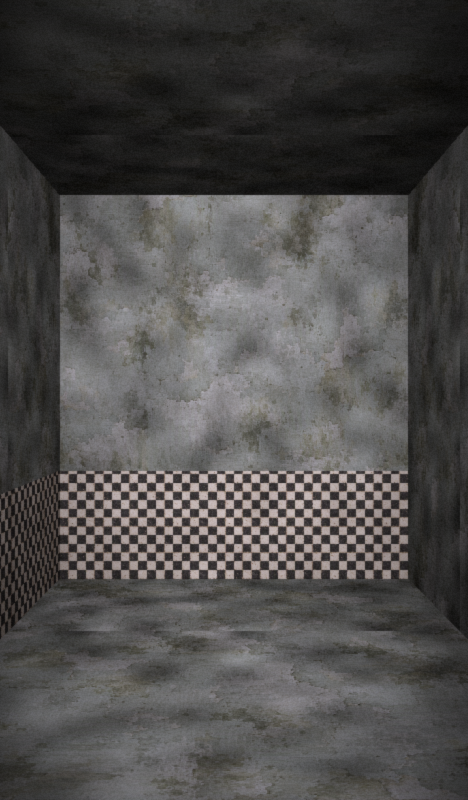
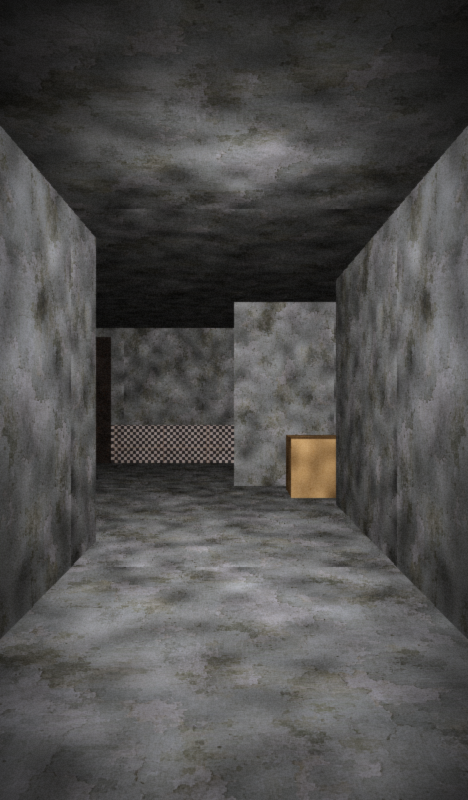
走廊尽头改成转角：直走 5.4 米，左边拐进去
原来尽头是一堵平墙，看着像走到死路。现在走廊直走 5.4 米到路口，
正前方封死、左手边豁开一条通道再往深处延伸，通道尽头有扇门。

- 几何用「一个大盒子当边界 + 几块实心填充」拼出 L 形，不再复用
  gen_placeholder_art 的 LEFT_CORR / RIGHT_CORR（那两个是直通长方体）
- FOV 从 34° 提到 46°：34° 在 4 米处只有 1.5 米视野宽，两侧墙都进不来
- ⚠ 左墙必须**提前断开**（4.0 米就结束）。做到 5.4 米的话，左拐口
  被这面墙整个挡住，渲出来还是一堵平墙 —— 试了两轮才发现
- 路口右侧加纸箱，别让封死的那半边空着

diff --git a/tools/render_corridor.py b/tools/render_corridor.py
@@ -3,11 +3,10 @@
 和办公室全景 / 监控同一套光线投射渲染器、同一套手绘贴图，
 所以门口那条走廊和房间是同一个世界。
 
-几何**直接复用** gen_placeholder_art 里的 LEFT_CORR / RIGHT_CORR ——
-全景里那两块本来就画了走廊，只是房间那盏吊灯照不进去，一直是黑的。
-这里给走廊单独点一盏灯，渲出来的就是「开灯之后看见的样子」。
-
-⚠ 只渲开灯这一版。关灯时门洞里就是黑的，不需要贴图（代码里直接隐藏）。
+几何不是照抄全景的 LEFT_CORR / RIGHT_CORR —— 那两块是直通的长方体，
+正面看只有一堵贴脸的平墙。这里自己拼了一个 **T 字路口**：
+2 米宽的直段走 2.4 米，尽头豁开成 6 米宽的横向通道，对面墙上有门、
+旁边有柜子和纸箱。只渲开灯这一版，关灯时门洞里就是黑的（代码里隐藏）。
 
 视角约定：门洞 1.2 × 2.05 米，玩家眼点离门 2.6 米 ——
 水平 / 垂直张角由这两个数算出来，贴回门洞时透视才对得上，
@@ -39,11 +38,11 @@ DOOR_W = 1.2
 DOOR_H = 2.05
 EYE_DIST = 2.6
 
-# 门洞在眼里的张角（水平 26°）—— 但**不能照这个渲**：
-# 走廊宽 2 米、长 4.4 米，26° 的锥体在尽头正好是 2 米宽，
-# 两侧墙一根线都进不了画面，渲出来像正对着一堵墙。
-# 放到 34° 才有纵深 —— 贴回门洞时透视略有夸张，但看着才像走廊。
-FOV_H = 34.0
+# 门洞在眼里的张角是水平 26° —— 但**不能照这个渲**：
+# 走廊 2 米宽，26° 的锥体在 2.4 米处只有 1.1 米宽，两侧墙一根线都进不了画面，
+# 渲出来像正对着一堵墙。46° 才够看清两侧、也才看得见尽头的左拐口
+# （贴回门洞时透视略夸张，但看着才像一条能走人的走廊）。
+FOV_H = 46.0
 
 # 图的比例必须等于 1.2 : 2.05（≈ 0.585）
 W = 468
@@ -57,15 +56,71 @@ LIGHT_RADIUS = 4.6
 DARK = 0.95
 
 
+# 装饰配色（和监控里那套转角一致）
+DOOR_TINT = np.array([0.26, 0.22, 0.20], np.float32)
+CARTON_TINT = np.array([0.46, 0.36, 0.24], np.float32)
+
+# 走廊几何（米，depth 从门口往里量）
+CZ = -1.2               # 走廊中心 z（相机站这条线上）
+CORRIDOR_HALF = 1.0     # 直段半宽 → 走廊 2 米
+CORRIDOR_LEN = 5.4      # 直段多长（够长才有纵深）
+TURN_LEN = 6.6          # 路口对面墙离门口多远
+TURN_DEPTH = 9.0        # 右拐通道伸到多深
+TURN_LEFT = -5.0        # 路口向左侧放开到哪（z）
+TURN_RIGHT = 3.0        # 路口向右侧放开到哪（z）
+BRANCH_Z0 = 0.5         # 右拐通道的 z 范围
+BRANCH_Z1 = 2.5
+
+
 def corridor_boxes(sign):
-    """sign = -1 左门 / +1 右门。几何照抄全景里的那两只盒子。"""
-    bmin, bmax = gpa.LEFT_CORR if sign < 0 else gpa.RIGHT_CORR
-    return [{
-        "bmin": bmin,
-        "bmax": bmax,
-        "default": ("wall", gpa.WALL_TINT, 2.0, 0.14),
-        "band": True,
-    }]
+    """sign = -1 左门 / +1 右门。
+
+    走廊直走 5.4 米，尽头是路口；路口**正前方封死，右手边拐进去**，
+    拐进去那条通道再往深处延伸 2.4 米。
+
+    照 FNAF 1 门厅外：门外不是一堵贴脸的平墙，是一条能走人、还能拐弯的路。
+
+    ⚠ 两个数不能随便改：
+      · 直段必须**够长**（5.4 米）—— 开在 2.6 米的话正面视野只有一米多宽，
+        右拐口全在画面外，看起来还是一堵墙
+      · 右拐口必须在**相机视野内**（z ∈ [0.5, 2.5]，相对相机偏 1.7~3.7 米，
+        6.6 米远处对应 14°~29°，水平半角 23° 刚好罩住入口那一段）
+    """
+
+    def x_at(depth):
+        return sign * (2.6 + depth)
+
+    def part(d0, d1, y0, y1, z0, z1, default=None, band=False):
+        xs = sorted((x_at(d0), x_at(d1)))
+        zs = sorted((z0, z1))
+        return {
+            "bmin": (xs[0], y0, zs[0]),
+            "bmax": (xs[1], y1, zs[1]),
+            "default": default if default else ("wall", gpa.WALL_TINT, 2.0, 0.14),
+            "band": band,
+        }
+
+    return [
+        # 边界：走廊 + 路口 + 右拐通道，全包进来
+        part(0.0, TURN_DEPTH, 0.0, 2.2, TURN_LEFT, TURN_RIGHT, band=True),
+
+        # 直段两侧的墙 —— 中间只留 2 米。
+        # ⚠ **左墙必须提前断开**（4.0 米就结束）：断得晚了，左拐口会被这面墙
+        # 整个挡住，从相机根本看不见 —— 试过做到 5.4 米，渲出来还是一堵平墙。
+        part(0.0, 4.0, 0.0, 2.2, TURN_LEFT, CZ - CORRIDOR_HALF),
+        part(0.0, CORRIDOR_LEN, 0.0, 2.2, CZ + CORRIDOR_HALF, TURN_RIGHT),
+
+        # 路口对面：右半边封死，左半边通到深处（那里就是「拐过去」的通道）
+        part(TURN_LEN, TURN_DEPTH, 0.0, 2.2, CZ, TURN_RIGHT),
+
+        # 左拐通道尽头墙上的门
+        part(TURN_DEPTH - 0.06, TURN_DEPTH, 0.0, 2.05,
+             TURN_LEFT + 0.6, TURN_LEFT + 1.8, ("metal", DOOR_TINT, 1.4, 0.10)),
+
+        # 路口右侧地上的两只纸箱（别让封死的那半边空着）
+        part(5.8, 6.4, 0.0, 0.62, CZ + 0.6, CZ + 1.3,
+             ("paper", CARTON_TINT, 1.1, 0.14)),
+    ]
 
 
 def render_corridor(sign):
@@ -82,8 +137,8 @@ def render_corridor(sign):
     gpa.H = H
     gpa.FOV_H = FOV_H
 
-    # 灯摆在走廊中段，稍微偏向门口 —— 门框边缘也能沾到一点光
-    gpa.LIGHT_POS = np.array([sign * 4.2, 1.95, -1.2], np.float32)
+    # 灯摆在转角通道里 —— 门口到转角这段是暗的，转角那头亮，纵深才出来
+    gpa.LIGHT_POS = np.array([sign * 5.2, 1.95, -1.2], np.float32)
     gpa.LIGHT_RADIUS = LIGHT_RADIUS
     gpa.LIGHT_COLOR = LIGHT_COLOR
 
